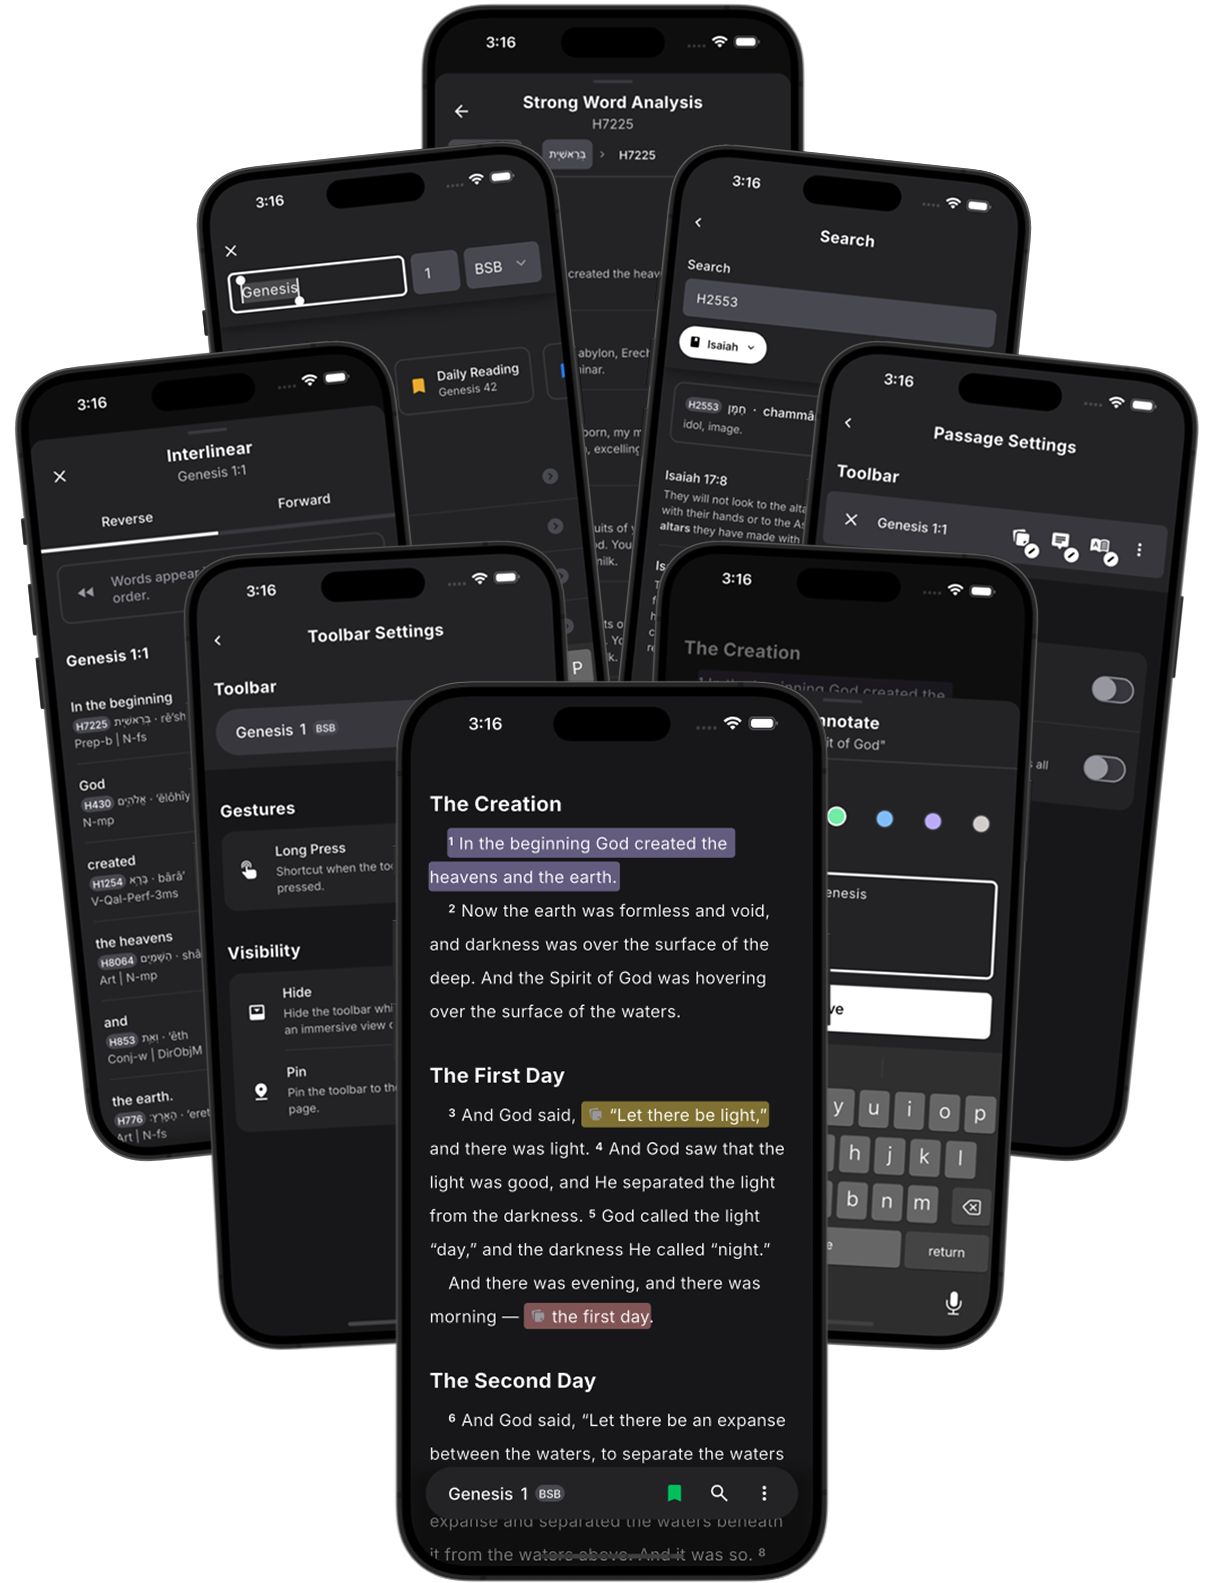
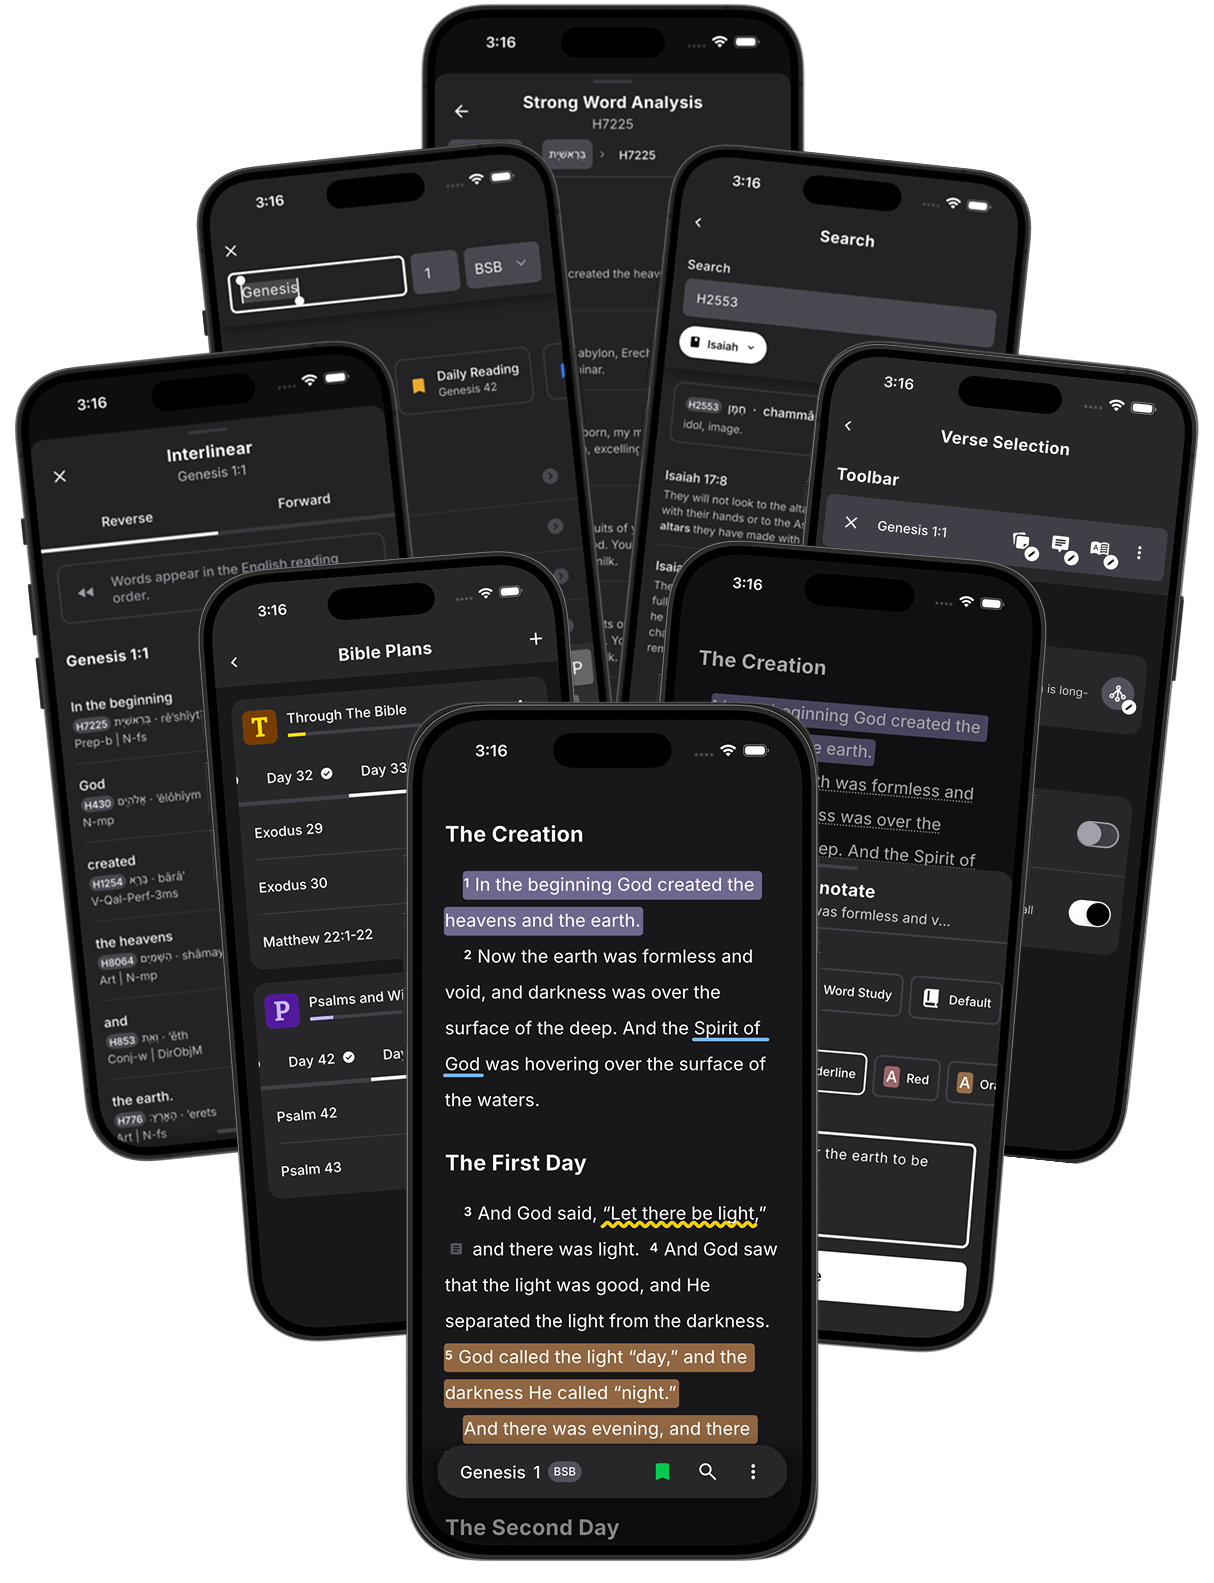
Layout changes

diff --git a/app/page.tsx b/app/page.tsx
@@ -1,20 +1,30 @@
-import { IconBrandDiscordFilled } from '@tabler/icons-react';
+import {
+  IconBrandDiscordFilled,
+  IconBrandInstagram,
+} from '@tabler/icons-react';
 import Image from 'next/image';
 import { CSSProperties } from 'react';
 
 import AppStoreButtons from '@/components/blocks/AppStoreButtons';
 import CtaButton from '@/components/blocks/CtaButton';
 import FeatureShowcase from '@/components/blocks/FeatureShowcase';
+import InstagramFeed from '@/components/blocks/InstagramFeed';
 import Page from '@/components/layout/Page';
 import Section from '@/components/layout/Section';
 import { site } from '@/lib/site';
 
-// "Light Button" palette — a white button with dark text (used for the Discord CTA).
 const lightButtonVars = {
   '--emphasis': '200 0% 100%',
   '--emphasis-soft': '240 5% 96%',
   '--on-emphasis': '240 10% 4%',
   '--on-emphasis-soft': '240 6% 10%',
+} as CSSProperties;
+
+const instagramPaletteVars = {
+  '--emphasis': '336 73% 54%',
+  '--emphasis-soft': '323 59% 48%',
+  '--on-emphasis': '0 0% 100%',
+  '--on-emphasis-soft': '0 0% 100%',
 } as CSSProperties;
 
 export default function HomePage() {
@@ -79,6 +89,12 @@ export default function HomePage() {
               video: '/media/read-without-distraction.webm',
             },
             {
+              title: 'Follow a plan, one day at a time',
+              subtitle:
+                'Build a steady reading rhythm with Bible plans that guide you through Scripture, one meaningful passage at a time.',
+              video: '/media/go-anywhere.webm',
+            },
+            {
               title: 'Go anywhere, instantly',
               subtitle:
                 'Jump to any chapter by typing a reference. Your recent passages and bookmarks are always a tap away. Swipe the toolbar to go back.',
@@ -89,6 +105,41 @@ export default function HomePage() {
               subtitle:
                 "Whether you're a note-taker or a deep studier, Lux puts the right tools within reach.",
               video: '/media/your-tools.webm',
+            },
+          ]}
+        />
+      </Section>
+
+      <Section
+        align="start"
+        title="Built to Write"
+        subtitle="Capture what stands out, shape it your way, and keep every insight close at hand."
+      >
+        <FeatureShowcase
+          features={[
+            {
+              title: 'Annotate verses and phrases',
+              subtitle:
+                'Add your thoughts to a whole verse or a specific phrase, so the details that matter stay connected to the text.',
+              video: '/media/highlights.webm',
+            },
+            {
+              title: 'Make highlights your own',
+              subtitle:
+                'Choose highlight styles that fit the way you read and make important words and passages easy to find again.',
+              video: '/media/highlights.webm',
+            },
+            {
+              title: 'Keep notes in notebooks',
+              subtitle:
+                'Organize annotations into notebooks for studies, sermons, questions, and everything else you want to return to.',
+              video: '/media/your-tools.webm',
+            },
+            {
+              title: 'See every annotation together',
+              subtitle:
+                'Review all your notes and highlights in one place, then jump right back to the verse that sparked them.',
+              video: '/media/search.webm',
             },
           ]}
         />
@@ -108,19 +159,50 @@ export default function HomePage() {
               video: '/media/dig-deeper.webm',
             },
             {
-              title: 'Highlight, note, remember',
-              subtitle:
-                'Highlight verses or individual words in any color, and attach notes wherever your thoughts take you.',
-              video: '/media/highlights.webm',
-            },
-            {
               title: 'Search the whole Bible',
               subtitle:
                 "Search any word, phrase, or Strongs word across the entire Bible. Find the verse you're thinking of in seconds.",
               video: '/media/search.webm',
             },
+            {
+              title: 'Keep your study in view',
+              subtitle:
+                'Open a study panel alongside Scripture, so cross-references, commentary, and word details stay in view as you read.',
+              video: '/media/dig-deeper.webm',
+            },
+            {
+              title: 'Explore the words behind the text',
+              subtitle:
+                'Look up words in the built-in lexicon and dictionary to bring context and meaning closer to the passage.',
+              video: '/media/dig-deeper.webm',
+            },
           ]}
         />
+      </Section>
+
+      <Section
+        background="dots"
+        align="responsive"
+        paletteVars={instagramPaletteVars}
+        tagline="Learn More"
+        title={
+          <>
+            Follow along on <span className="gradient-heading">Instagram</span>
+          </>
+        }
+        subtitle="See the latest Lux updates, discover tips and tricks, and get more from your time in Scripture."
+      >
+        <div className="flex flex-col items-center gap-8">
+          <CtaButton
+            text="Follow @luxbible.app"
+            href={site.social.instagram}
+            external
+            icon={
+              <IconBrandInstagram style={{ width: '1.5em', height: '1em' }} />
+            }
+          />
+          <InstagramFeed />
+        </div>
       </Section>
 
       <Section

diff --git a/components/blocks/InstagramFeed.tsx b/components/blocks/InstagramFeed.tsx
@@ -1,0 +1,124 @@
+import { IconBrandInstagram, IconPlayerPlayFilled } from '@tabler/icons-react';
+
+type BeholdMediaSize = {
+  mediaUrl: string;
+};
+
+type BeholdPost = {
+  id: string;
+  timestamp: string;
+  permalink: string;
+  mediaType: 'IMAGE' | 'VIDEO' | 'CAROUSEL_ALBUM';
+  mediaUrl: string;
+  thumbnailUrl?: string;
+  sizes?: {
+    medium?: BeholdMediaSize;
+  };
+  caption?: string;
+  prunedCaption?: string;
+  altText?: string;
+};
+
+type BeholdFeed = {
+  posts: BeholdPost[];
+};
+
+type InstagramPost = {
+  id: string;
+  caption: string;
+  imageUrl: string;
+  permalink: string;
+  isVideo: boolean;
+};
+
+const instagramRevalidateSeconds = 60 * 60 * 24;
+
+function postPermalink(permalink: string) {
+  const url = new URL(permalink);
+  url.pathname = url.pathname.replace(/^\/reel\//, '/p/');
+  return url.toString();
+}
+
+async function getInstagramPosts(): Promise<InstagramPost[]> {
+  const feedId = process.env.BEHOLD_FEED_ID;
+
+  if (!feedId) {
+    return [];
+  }
+
+  const response = await fetch(
+    `https://feeds.behold.so/${encodeURIComponent(feedId)}`,
+    {
+      next: { revalidate: instagramRevalidateSeconds },
+    },
+  );
+
+  if (!response.ok) {
+    throw new Error('Instagram feed is unavailable.');
+  }
+
+  const { posts } = (await response.json()) as BeholdFeed;
+
+  return [...posts]
+    .sort((a, b) => (b.timestamp ?? '').localeCompare(a.timestamp ?? ''))
+    .map((post): InstagramPost | null => {
+      const imageUrl =
+        post.sizes?.medium?.mediaUrl ??
+        (post.mediaType === 'VIDEO' ? post.thumbnailUrl : post.mediaUrl);
+
+      if (!imageUrl) {
+        return null;
+      }
+
+      return {
+        id: post.id,
+        caption: post.altText ?? post.prunedCaption ?? post.caption ?? '',
+        imageUrl,
+        permalink: postPermalink(post.permalink),
+        isVideo: post.mediaType === 'VIDEO',
+      };
+    })
+    .filter((post): post is InstagramPost => post !== null)
+    .slice(0, 6);
+}
+
+export default async function InstagramFeed() {
+  const posts = await getInstagramPosts();
+
+  if (posts.length === 0) {
+    return null;
+  }
+
+  return (
+    <div className="grid grid-cols-3 gap-4 lg:grid-cols-6">
+      {posts.map((post) => (
+        <a
+          key={post.id}
+          href={post.permalink}
+          target="_blank"
+          rel="noreferrer"
+          className="group relative aspect-[9/16] overflow-hidden rounded-2xl bg-background-soft"
+          aria-label={`Open Instagram post${
+            post.caption ? `: ${post.caption}` : ''
+          }`}
+        >
+          {/* eslint-disable-next-line @next/next/no-img-element */}
+          <img
+            src={post.imageUrl}
+            alt={post.caption || 'Lux Bible Instagram post'}
+            className="h-full w-full object-cover transition duration-300 group-hover:scale-105"
+          />
+          <div className="absolute inset-0 bg-gradient-to-t from-black/65 via-transparent to-transparent opacity-80" />
+          <div className="absolute bottom-3 left-3 flex items-center gap-2 text-sm font-bold text-white">
+            {post.isVideo ? (
+              <IconPlayerPlayFilled size={18} />
+            ) : (
+              <IconBrandInstagram size={18} />
+            )}
+            <span>{post.isVideo ? 'Watch Reel' : 'View post'}</span>
+          </div>
+        </a>
+      ))}
+    </div>
+  );
+}

diff --git a/components/layout/Section.tsx b/components/layout/Section.tsx
@@ -1,4 +1,4 @@
-import { ReactNode } from 'react';
+import { CSSProperties, ReactNode } from 'react';
 
 import DotsBackground from '@/components/backgrounds/DotsBackground';
 import GridBackground from '@/components/backgrounds/GridBackground';
@@ -26,6 +26,7 @@ export default function Section({
   subtitle,
   children,
   mediaBelow,
+  paletteVars,
 }: {
   id?: string;
   background?: 'dots';
@@ -38,6 +39,7 @@ export default function Section({
   subtitle?: ReactNode;
   children?: ReactNode;
   mediaBelow?: ReactNode;
+  paletteVars?: CSSProperties;
 }) {
   const heading =
     titleSize === 'lg' || useH1 ? (
@@ -88,7 +90,7 @@ export default function Section({
   );
 
   return (
-    <section id={id}>
+    <section id={id} style={paletteVars}>
       {background === 'dots' ? <DotsBackground>{inner}</DotsBackground> : inner}
     </section>
   );

diff --git a/components/layout/SiteFooter.tsx b/components/layout/SiteFooter.tsx
@@ -1,4 +1,10 @@
-import { IconBrandInstagram, IconMail } from '@tabler/icons-react';
+import {
+  IconBrandFacebook,
+  IconBrandInstagram,
+  IconBrandTiktok,
+  IconBrandYoutube,
+  IconMail,
+} from '@tabler/icons-react';
 import Link from 'next/link';
 
 import { site } from '@/lib/site';
@@ -9,6 +15,24 @@ const socials = [
     href: site.social.instagram,
     color: '#ec4899',
     icon: <IconBrandInstagram />,
+  },
+  {
+    name: 'Facebook',
+    href: site.social.facebook,
+    color: '#1877f2',
+    icon: <IconBrandFacebook />,
+  },
+  {
+    name: 'YouTube',
+    href: site.social.youtube,
+    color: '#ff0000',
+    icon: <IconBrandYoutube />,
+  },
+  {
+    name: 'TikTok',
+    href: site.social.tiktok,
+    color: '#25f4ee',
+    icon: <IconBrandTiktok />,
   },
   {
     name: 'Email',

diff --git a/lib/site.ts b/lib/site.ts
@@ -12,6 +12,9 @@ export const site = {
 
   social: {
     instagram: 'https://www.instagram.com/luxbible.app/',
+    facebook: 'https://www.facebook.com/people/Lux-Bible/61591758211559/',
+    youtube: 'https://www.youtube.com/@luxbibleapp',
+    tiktok: 'https://www.tiktok.com/@lux.bible',
     email: 'contact@luxbible.app',
   },
 

diff --git a/styles/globals.css b/styles/globals.css
@@ -38,6 +38,10 @@
         @apply bg-background text-foreground;
     }
 
+    html {
+        scroll-behavior: smooth;
+    }
+
     a {
         @apply hover:text-emphasis transition break-words;
         word-break: break-word;
